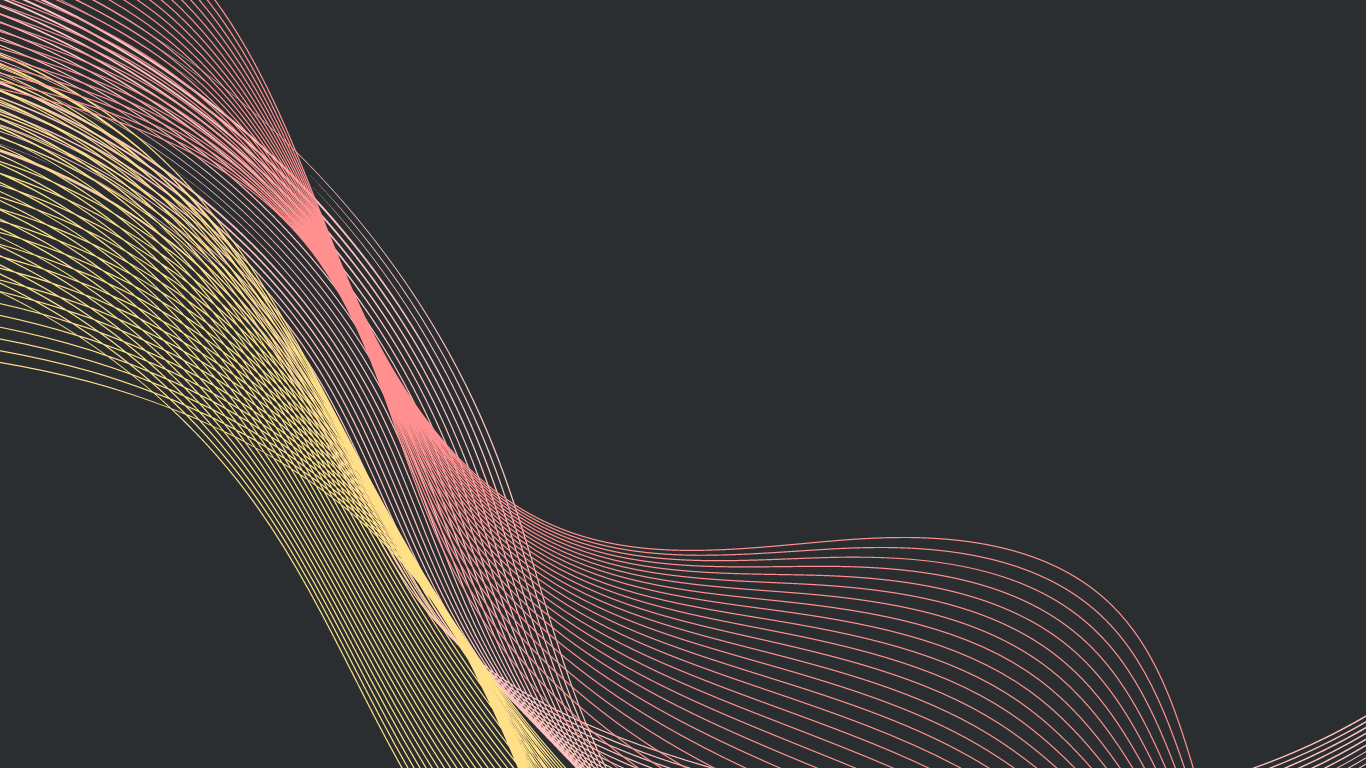
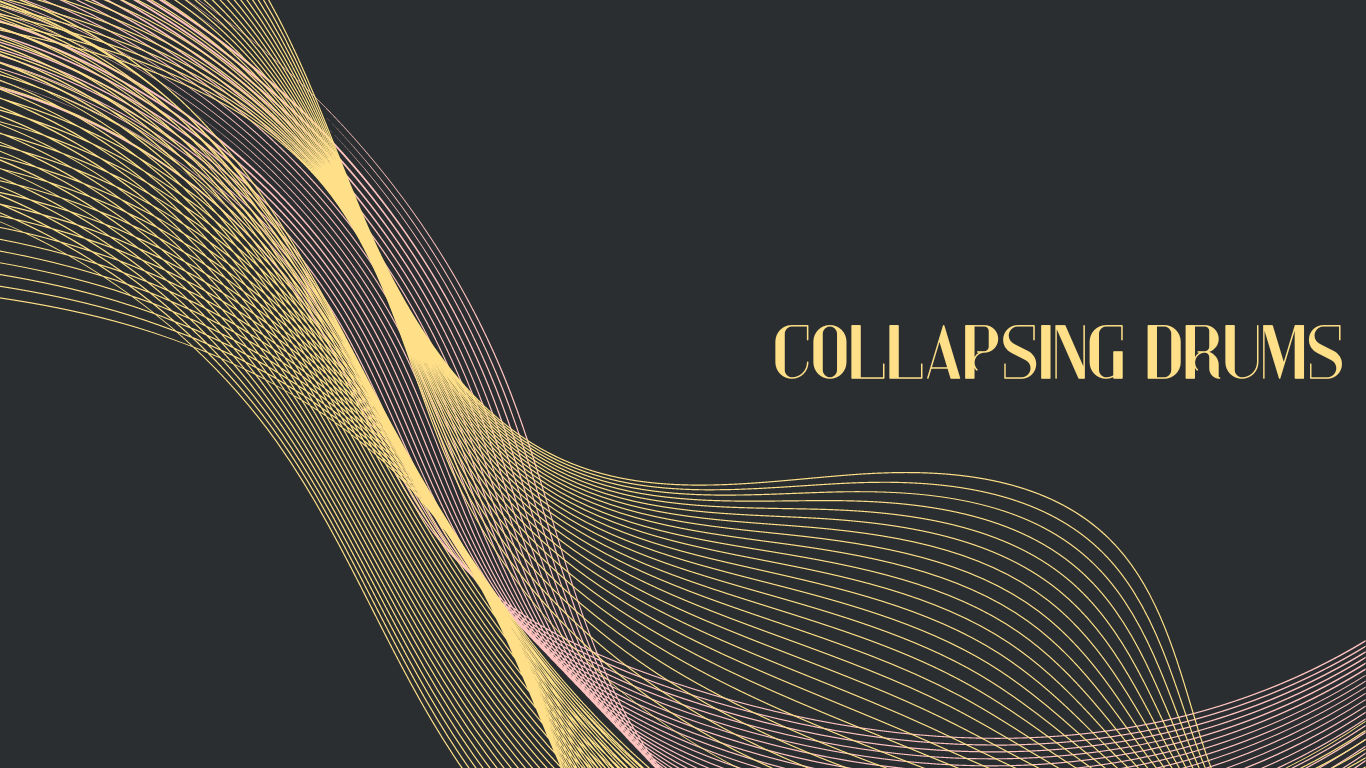
Updated the HomePage img

Changed region(s): [[0.0, 0.0, 1.0, 1.0], [0.5534, 0.4062, 0.9839, 0.5]]

diff --git a/collapsing-drums/src/components/header.jsx b/collapsing-drums/src/components/header.jsx
@@ -29,27 +29,27 @@ const Header = () => {
         <div className="header row justify-content-end">
 
              {/* Home Page */}
-             <div className="page col-md-2 align-self-end" onClick={handleHomeClick}>
+             <div className="page col-sm-2 col-md-2 align-self-end" onClick={handleHomeClick}>
                 <h3>Home</h3>    
             </div>
 
             {/* About Page */}
-            <div className="page col-md-2 align-self-end" onClick={handleAboutClick}>
+            <div className="page col-sm-2 col-md-2 align-self-end" onClick={handleAboutClick}>
                 <h3>About Us</h3>    
             </div>
 
             {/* Product Page */}
-            <div className="page col-md-2 align-self-end" onClick={handleProductClick}>
+            <div className="page col-sm-2 col-md-2 align-self-end" onClick={handleProductClick}>
                 <h3>Products</h3>    
             </div>
 
             {/* Contact Page */}
-            <div className="page col-md-2 align-self-end" onClick={handleContactClick}>
+            <div className="page col-sm-2 col-md-2 align-self-end" onClick={handleContactClick}>
                 <h3>Contact</h3>    
             </div>
 
             {/* Shopping Cart */}
-            <div className="page col-md-2 align-self-end">
+            <div className="page col-sm-2 col-md-2 align-self-end">
                 <FaShoppingCart
                     className="shopping-cart"
                     onClick={handleCartClick}

diff --git a/collapsing-drums/src/components/home.jsx b/collapsing-drums/src/components/home.jsx
@@ -4,14 +4,11 @@ import Footer from "./footer";
 import "../css/home.css";
 import "../css/site.css";
 import homeImage from '../assets/HomePage.png'; 
-import collapsingDrums from '../assets/CollapsingDrums.png';
 
 const Home = () => {
     return (
         <div className="home-container container-fluid" style={{ backgroundImage: `url(${homeImage})` }}>
             <Header />
-            <div className="title" style={{ backgroundImage: `url(${collapsingDrums})` }}></div>
-            <Footer />
         </div>
     );
 };

diff --git a/collapsing-drums/src/css/header.css b/collapsing-drums/src/css/header.css
@@ -12,17 +12,15 @@
     width: auto;
 }
 
-h1 {
-    font-size: 50px;
-    margin: 0;
-    font-family: bradley hand, cursive;
-}
-
 .page{
     color: white;
-    font-family:Verdana, Geneva, Tahoma, sans-serif;
     padding-bottom: 20px;
-    width: 200px;
+    width: 10%;
+}
+
+h3{
+    font-size: 3vh;
+    font-family: Verdana, Geneva, Tahoma, sans-serif;
 }
 
 .page:hover {

diff --git a/collapsing-drums/src/css/home.css b/collapsing-drums/src/css/home.css
@@ -1,6 +1,7 @@
 /* home.css */
 .home-container {
     height: 100vh;
+    width: 100%;
     background-size: cover;
     background-position: center;
     display: flex;
